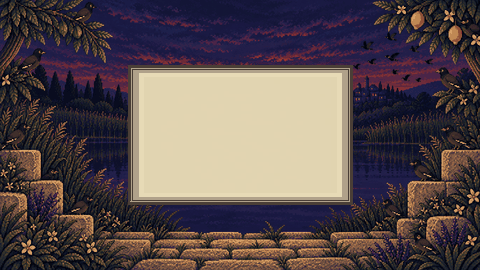
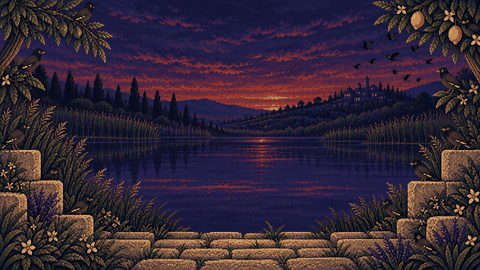
fix: take the painted card out of the GAME OVER backdrop
The first cut of game-over-hero.png had a cream plate with a frame drawn
into its centre, so the real card-plate panel landed inside it and the
screen showed two nested cards. Re-cut with that rectangle repainted as
open water. Same file, same GUID, same import settings, 96 colours.

Changed region(s): [[0.25, 0.237, 0.75, 0.7704]]

diff --git a/Docs/ASSET_CREDITS.md b/Docs/ASSET_CREDITS.md
@@ -18,7 +18,7 @@ AI-generated assets are recorded here as well. They are not third-party work, bu
 | UI kit, 7 PNG | AI-generated with ChatGPT image generation, 2026-09-15. Art direction, review, and approval by Roy Davidovich | Original project asset, no third-party licence | The panel, buttons and selection frame behind every screen, and the HUD icons | `Assets/Art/UI/`. The panel, button, button-pressed and selection frame are 48 x 48 with a 16 px border on all four sides, authored for 9-slice per LECTURER Session 7 slide 24 and imported with those borders set. Their centre 16 x 16 is a single flat colour, so it stretches to any size without streaking. The three icons are 32 x 32. All RGBA, 32 pixels per unit, point filter |
 | Title screen and menu art, 5 PNG | AI-generated with ChatGPT image generation, 2026-09-17. Art direction, review, and approval by Roy Davidovich | Original project asset, no third-party licence | The main menu background, the BomberBird wordmark, the Play and Quit button labels, and the focus arrow | `Assets/Art/UI/`. `title-hero.png` is 480 x 270 and opaque; `title-wordmark.png` is 320 x 96. Both are drawn at a quarter of the 1920 x 1080 reference, the hero shown at 4x to fill the screen and the wordmark at 3x so it sits inside the stone sign. `play-label.png` and `quit-label.png` are 64 x 16, replacing TextMesh Pro labels that clashed with the wordmark. `focus-arrow.png` is 16 x 16, shown at 4x beside whichever button has focus. All RGBA, 32 pixels per unit, point filter |
 | Closing screens, 3 PNG | AI-generated with ChatGPT image generation, 2026-09-19. Art direction, review, and approval by Roy Davidovich | Original project asset, no third-party licence | The closing screen backdrop, the closing note backdrop, and the myna-at-a-cavity illustration on the note | `Assets/Art/UI/`. `closing-hero.png` and `closing-note-hero.png` are 480 x 270 and opaque, shown at 4x; `myna-nest.png` is 240 x 160 with a genuine alpha channel, shown at 2x. Unlike `title-hero.png` (96 colours) and `bird-select-hero.png` (16, indexed), `closing-hero.png` is truecolour at 63,625 colours - accepted as delivered rather than requantised. All 32 pixels per unit, point filter |
-| Game over screen art, 1 PNG | AI-generated with ChatGPT image generation, 2026-09-19. Art direction, review, and approval by Roy Davidovich | Original project asset, no third-party licence | The backdrop behind the GAME OVER card | `Assets/Art/UI/game-over-hero.png`. 480 x 270, opaque, truecolour at 102 colours, 32 pixels per unit, point filter, shown at 4x to fill the screen. The fourth hero in the valley set: the same place as `title-hero.png`, `bird-select-hero.png` and `closing-hero.png` at its lowest hour, with mynas silhouetted on the branches and stones. The centre is deliberately quiet because the card sits over it |
+| Game over screen art, 1 PNG | AI-generated with ChatGPT image generation, 2026-09-19. Art direction, review, and approval by Roy Davidovich | Original project asset, no third-party licence | The backdrop behind the GAME OVER card | `Assets/Art/UI/game-over-hero.png`. 480 x 270, opaque, truecolour at 96 colours, 32 pixels per unit, point filter, shown at 4x to fill the screen. The fourth hero in the valley set: the same place as `title-hero.png`, `bird-select-hero.png` and `closing-hero.png` at its lowest hour, with mynas silhouetted on the branches and stones. The centre is left as open water because the card sits over it: the first cut came back with a cream plate painted into the middle, which doubled up with the real one, and was replaced 2026-09-19 by a re-cut of the same image with that rectangle repainted |
 | `Heebo-Black.ttf` | Oded Ezer and Yanek Iontef, [Heebo](https://github.com/OdedEzer/heebo), file `fonts/ttf/Heebo-Black.ttf` at commit fetched 2026-09-19 | SIL Open Font License 1.1, text at `Assets/ThirdParty/Fonts/Heebo-OFL.txt` (the repository's `OFL.txt`) | The Hebrew title on the closing screen | `Assets/ThirdParty/Fonts/`. Heebo extends Roboto with a Hebrew face drawn for it, so the two scripts share proportions. Only the Black weight is imported, and only the closing screen's Hebrew heading uses it; the project-wide TextMesh Pro default is unchanged |
 | `LiberationSans SDF - Hebrew.asset` | Generated by Claude from `Assets/TextMesh Pro/Fonts/LiberationSans.ttf`, 2026-09-19 | SIL OFL 1.1, the same licence as the source font; text at `Assets/TextMesh Pro/Fonts/LiberationSans - OFL.txt` | The Hebrew half of the closing note | `Assets/Art/Fonts/`. A second TextMesh Pro font asset from the font the project already ships. The default `LiberationSans SDF` bakes 250 characters, none of them Hebrew, on a static atlas, so Hebrew rendered as empty boxes. This one is dynamic with the source font assigned and 135 characters pre-baked: ASCII plus the Hebrew alphabet. No new typeface, so no new licence |
 | Bird selection cards, 5 PNG | AI-generated with ChatGPT image generation, 2026-09-18. Art direction, review, and approval by Roy Davidovich | Original project asset, no third-party licence | The field-guide card plate and the four bird portraits on the selection screen | `Assets/Art/UI/`. `card-plate.png` is 48 x 48 with a 16 px border on all four sides for 9-slice, cream paper in a gold double rule, drawn at 340 x 470. The four `portrait-*.png` are 132 x 140, drawn at 2x, every bird's feet on row 132 so the row shares one ground line. All RGBA, 32 pixels per unit, point filter |
